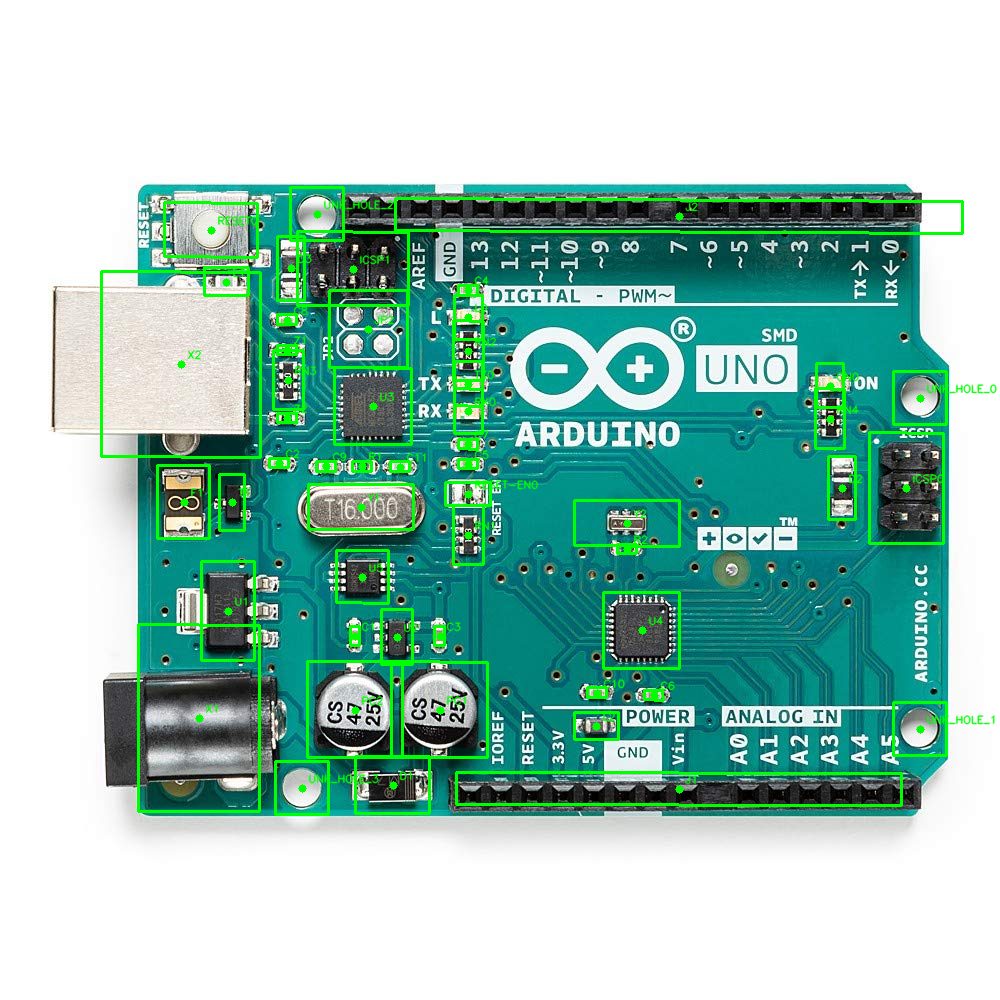
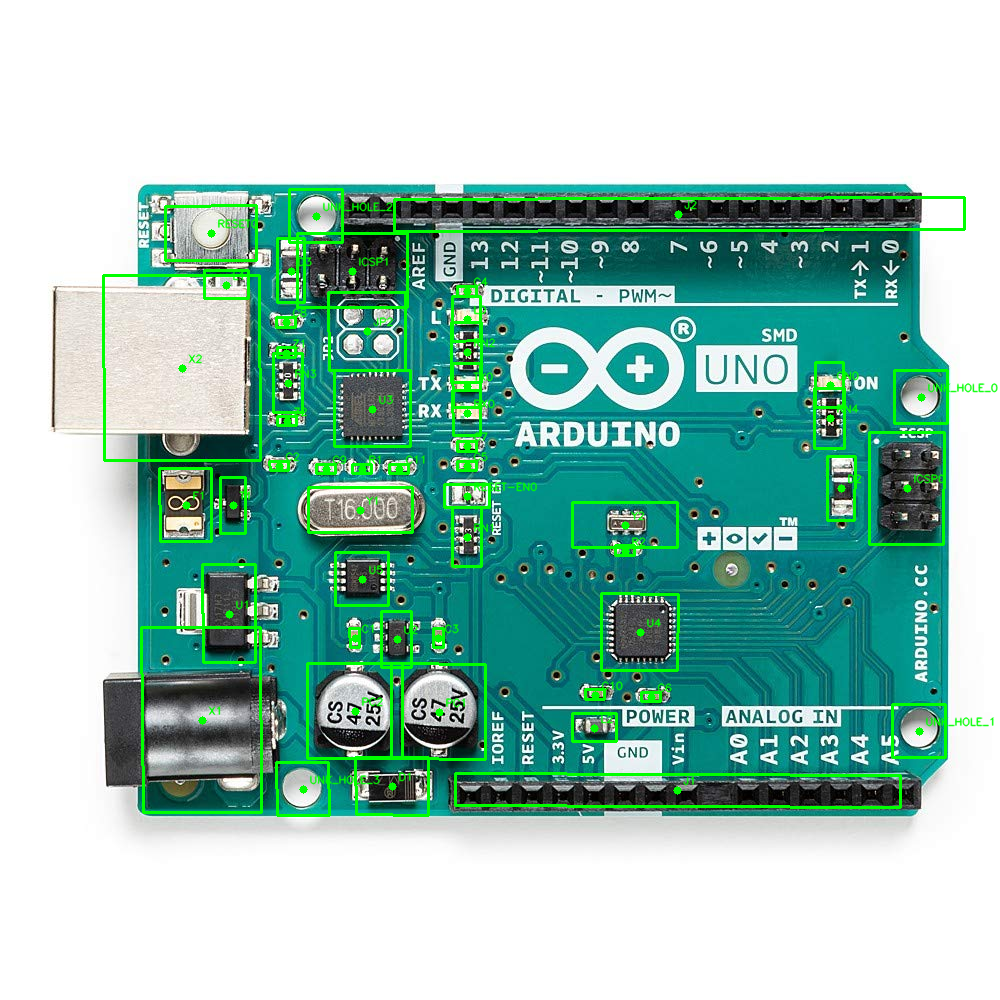
criacao analyze

diff --git a/valido/app/vision/analyze.py b/valido/app/vision/analyze.py
@@ -1,0 +1,31 @@
+import cv2
+import numpy as np
+
+def verificar_presenca_componente(img, pontos_poligono, limite_presenca=5.0):
+    mascara = np.zeros(img.shape[:2], dtype=np.uint8)
+
+    cv2.fillPoly(mascara, [np.int32(pontos_poligono)], 255)
+
+
+    x, y, w, h = cv2.boundingRect(np.int32(pontos_poligono))
+
+    if w == 0 or h == 0 or x < 0 or y < 0:
+        return False, 0.0
+    
+    recorte_img = img[y:y+h, x:x+w]
+    recorte_mascara = mascara[y:y+h, x:x+w]
+
+    gray = cv2.cvtColor(recorte_img, cv2.COLOR_BGR2GRAY)
+    bordas = cv2.Canny(gray, 50, 150)
+    bordas_mascaradas = cv2.bitwise_and(bordas, bordas, mask=recorte_mascara)
+
+    total_pixel_caixa = cv2.countNonZero(recorte_mascara)
+    total_pixel_borda = cv2.countNonZero(bordas_mascaradas)
+
+    if total_pixel_caixa == 0:
+        return False, 0.0
+    
+    desidade_bordas = (total_pixel_borda/total_pixel_caixa) * 100
+    esta_presente = desidade_bordas > limite_presenca
+
+    return esta_presente, desidade_bordas

diff --git a/valido/app/debug/draw.py b/valido/app/debug/draw.py
@@ -1,6 +1,7 @@
 import cv2
 from app.geometry.boxes import obter_tamanho_package_mm
 from app.geometry.mm_to_pixel import calcular_escala
+from app.vision.analyze import verificar_presenca_componente
 import numpy as np
 
 
@@ -52,6 +53,8 @@ def desenhar_caixa_aproximada_matriz(img, comp, matriz_transformacao, padding_px
     y_mm = comp["y_mm"]
     rot = comp["rot"]
 
+    img_copy = img.copy()
+
     if abs(rot) % 180 == 90:
         w_mm, h_mm = h_mm, w_mm
 
@@ -92,7 +95,11 @@ def desenhar_caixa_aproximada_matriz(img, comp, matriz_transformacao, padding_px
 
     cantos_finais_px = np.int32([pontos_com_padding])
 
-    cv2.polylines(img, cantos_finais_px, isClosed=True, color=(0, 255, 0), thickness=2)
+    esta_presente, score = verificar_presenca_componente(img_copy, cantos_finais_px)
+    
+    color = (0,255,0) if esta_presente else (0,0,255)
+
+    cv2.polylines(img, cantos_finais_px, isClosed=True, color=color, thickness=2)
 
 
 

diff --git a/valido/app/core/pipeline_2.py b/valido/app/core/pipeline_2.py
@@ -8,6 +8,7 @@ from app.debug.draw import desenhar_ponto_e_label, desenhar_caixa_aproximada_mat
 
 from app.vision.align import align
 
+
 def run_overlay_referencia(
     caminho_img: str,
     caminho_csv: str,
